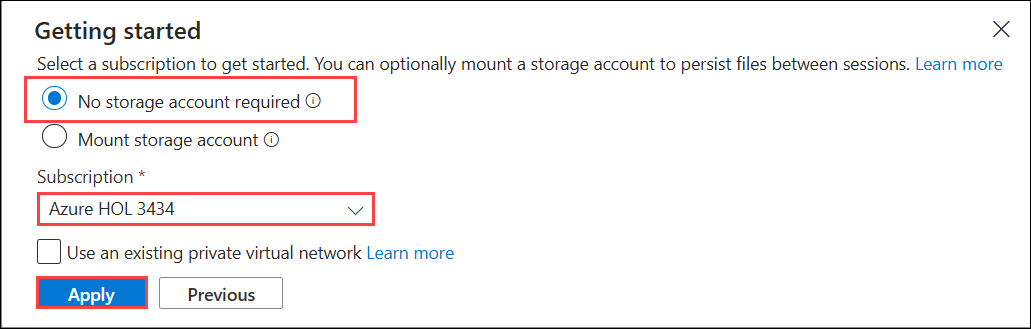
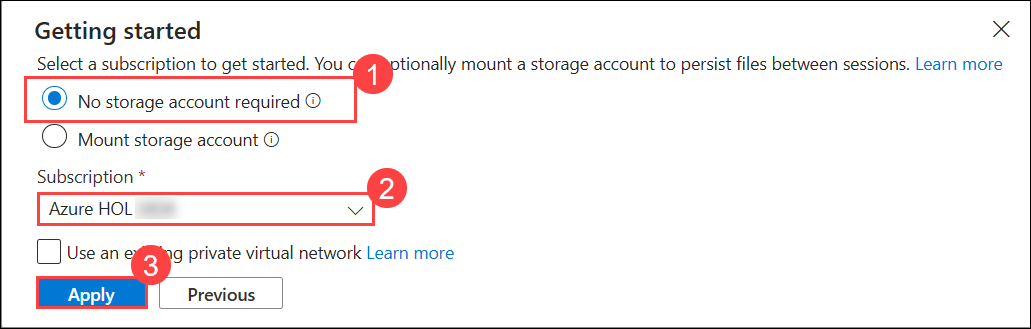
screenshots and content updated

diff --git a/HOL-4-azure-stack-hci/hci-eternal-hol1-ex2.md b/HOL-4-azure-stack-hci/hci-eternal-hol1-ex2.md
@@ -23,7 +23,7 @@ In this task, you will review the pre-generated ARM template and parameter files
 
     ![](./media/Ex2-9.png)
 
-1. On the Open Folder window, navigate to **C:\ (1)** path, select **LocalBox (2)** folder, then click on **Open Folder (3)**.
+1. On the Open Folder window, navigate to **C:\ (1)** path, select **LocalBox (2)** folder, then click on **Select Folder (3)**.
 
     ![](./media/Ex2-10.png)
 
@@ -33,13 +33,13 @@ In this task, you will review the pre-generated ARM template and parameter files
 
     ![](./media/lab02a1.png)
 
-1. Click on **No storage account required**, choose your subscription, and then click **Apply**.
+1. Click on **No storage account required (1)**, choose your subscription **(2)**, and then click **Apply (3)**.
 
-    >**Note:** Ensure that you select the subscription whose name begins with **Sub 05 - xxxx**
+    >**Note:** Ensure that you select the subscription whose name begins with **Azure HOL - xxxxxx**
 
     ![](./media/lab02a2.png)
 
-1. Open PowerShell and run the commands to register the required Resource Provide.
+1. Once the PowerShell is ready, run the below commands to register the required Resource Providers.
 
    >**Note:** It will take 2-3 minutes to get registered.
 
@@ -66,7 +66,7 @@ In this task, you will review the pre-generated ARM template and parameter files
 
 1. Navigate to the **Azure portal**, in search bar type **Subscriptions (1)** and select **Subscriptions (2)** under the services. 
 
-    >**Note:** Ensure that you select the subscription whose name begins with **Sub 05 - xxxx**
+    >**Note:** Ensure that you select the subscription whose name begins with **Azure HOL - xxxxxx**
 
     ![](./media/Ex2-0.png)
 
@@ -85,7 +85,7 @@ In this task, you will review the pre-generated ARM template and parameter files
 
 1. Similarly, on the Resource Providers page, search for **Hybrid**, select **Microsoft.HybridContainerService**, then click on **Register.**
 
-    >**Note:** You can verify all Resource Providers here to ensure they are registered successfully.
+    >**Note:** If it is already registered please ignore. You can verify all Resource Providers here to ensure they are registered successfully.
 
     ![](./media/Ex2-14.png)     
 
@@ -123,7 +123,7 @@ In this task, you will review the pre-generated ARM template and parameter files
 
 In this task, you will validate and deploy the Azure Local cluster using PowerShell with the pre-configured ARM template and parameter files.
 
-1. Open PowerShell ISE window and run the below command to validate your Azure Local deployment and cluster.
+1. Open Windows PowerShell ISE window and run the below command to validate your Azure Local deployment and cluster.
 
    ```
    $TemplateFile = Join-Path -Path $env:LocalBoxDir -ChildPath "azlocal.json"
@@ -134,6 +134,12 @@ In this task, you will validate and deploy the Azure Local cluster using PowerSh
 
 1. The above command will take approximately 45 minutes to get your deployment validated and show you the Azure Local cluster on the Azure Portal.
 
+    >**Note:** If the deployments fails run the below commands and then restart the VM and again run the code in **Step-1**
+
+    ```
+    Install-WindowsFeature -Name Hyper-V,Failover-Clustering,RSAT-Clustering-PowerShell -IncludeManagementTools
+    ```
+
 1. You can navigate to the Azure Portal and see a new Azure Local resource created in your resource group.
 
 1. Once the validation is completed, run the command below to start the creation of Azure Local. This command will take approximately 3 hrs to deploy your cluster. 
@@ -142,9 +148,19 @@ In this task, you will validate and deploy the Azure Local cluster using PowerSh
    New-AzResourceGroupDeployment -Name 'localcluster-deploy' -ResourceGroupName $env:resourceGroup -TemplateFile $TemplateFile -deploymentMode "Deploy" -TemplateParameterFile $TemplateParameterFile -OutVariable ClusterDeployment -ErrorAction Stop
    ```
 
-11. Once the deployment starts, you can navigate to the Azure Portal, select your Azure Local resource, and select the  **Deployments (1)** under Settings to see your **deployment status (3)**.
+1. Once the deployment starts, you can navigate to the **Azure Portal**, in search bar type **Resource groups (1)** and select **Resource groups (2)** under the services. 
+
+    ![](media/Ex3-0.png)
+
+1. From the Resource groups pane, click on **Azure-Local** resource group and verify the resources present in it.
+
+    ![](media/azurestackhci-rga.png "Select Azure Local Resource Group")
+
+1. In the  **Azure-Local** resource group in the search bar search for **localboxcluster** **(1)** and select **localboxcluster** **(2)** Azure Local.
+
+    ![](media/E2T2S7.png)
    
-12. Azure Local may take 3 to 5 hours to get deployed. If you navigate elsewhere in the Azure Portal, you can return to monitor progress on the Deployments tab of the cluster resource. Click **Refresh (2)** to get the latest status on deployment.
+1. Select the  **Deployments (1)** under Settings to see your **deployment status (3)**. Azure Local may take 3 to 5 hours to get deployed. If you navigate elsewhere in the Azure Portal, you can return to monitor progress on the Deployments tab of the cluster resource. Click **Refresh (2)** to get the latest status on deployment.
 
      ![](./media/NewEx3-6.png)
 

diff --git a/HOL-4-azure-stack-hci/hci-eternal-hol2-ex3.md b/HOL-4-azure-stack-hci/hci-eternal-hol2-ex3.md
@@ -73,9 +73,13 @@ In this task, you will configure an Entra ID group to manage authentication and 
 
     ![](media/Ex3-3.png)
 
-1. In the **New Group** tab, enter the **Group name** as **aks-auth** **(1)**, click on the **No Owner Selected** **(2)** under **Owners**, from the search **(3)** and select **(4)** for user **ODL_User <inject key="DeploymentID"></inject>**, and click on **Select** **(5)**.
+1. In the **New Group** tab, enter the **Group name** as **aks-auth** **(1)**, click on the **No Owner Selected** **(2)** under **Owners**, from the search **(3)** and select **(4)** for user **<inject key="AzureAdUserEmail"></inject>**, and click on **Select** **(5)**.
 
     ![](media/createnewgroup.png)
+
+1. Click on the **No members Selected** **(1)** under **Members**, from the search **(2)** and select **(3)** for user **<inject key="AzureAdUserEmail"></inject>**, and click on **Select** **(4)**.
+
+   ![](media/E4T2S4.png)
 
 1. In the **New Group** tab, click on **Create** button.
 
@@ -85,9 +89,17 @@ In this task, you will configure an Entra ID group to manage authentication and 
 
 In this task, you will deploy an AKS cluster on Azure Local with Entra-based RBAC authentication and network integration.
 
-1. In the Azure portal, click on the search blade at the top and search for **Azure Arc** and select **Kubernetes Clusters** under infrastructure from left side menu.
+1. In the Azure portal, click on the search blade at the top and search for **Azure Arc (1)** and select **Azure Arc (2)**
+
+   ![](media/E4T3S1-1.png)
+
+1. In the Azure Arc page, select **Kubernetes Clusters** under infrastructure from left side menu.
+
+   ![](media/E4T3S1.png)
 
 1. In the **Kubernetes Clusters** tab, click on **+ Add** **(1)** and from the drop-down select **Create a Kubernetes cluster**.
+
+   ![](media/E4T3S3.png)
 
 1. In the **Create a Kubernetes cluster** tab, fill in the following details in the Basic section and click on **Next: Node Pool** **(7)**.
 
@@ -96,7 +108,7 @@ In this task, you will deploy an AKS cluster on Azure Local with Entra-based RBA
    | Subscription | Default subscription **(1)** |
    | Resource group | From the drop-down Select **Azure-Local** **(2)**  |
    | Kubernetes cluster name | Enter the cluster name as **localaks** **(3)** |
-   | Custom location | From the drop-down Select **jumpstart(EastUS)** **(4)** |
+   | Custom location | From the drop-down Select **jumpstart** **(4)** |
    | Node size | From the drop down select **Standard_A2_v2** **(5)** |
    | Key pair name | Enter the Key pair name as **localaks** **(6)** |
 
@@ -118,11 +130,17 @@ In this task, you will deploy an AKS cluster on Azure Local with Entra-based RBA
 
    ![](media/Ex3-7.png)
 
+1. In the **Integration tab**, click on **Review + create**.
+
 1. In the **Review + create** tab, click on **Review**.
 
    ![](media/Ex3-8.png)
 
-1. Click on the AKS cluster to view details such as the Kubernetes version. "Status" may show connecting for some time while the cluster fully connects to Azure.
+1. Once the deployment completed, in search bar type **Kuberante azure arc (1)** and select **Kuberantes Azure Arc (2)**.
+
+   ![](media/E4T3S12.png)
+
+1. Click on **localaks** to view details such as the Kubernetes version. "Status" may show connecting for some time while the cluster fully connects to Azure.
 
      ![](media/Ex4-3.png)
     

diff --git a/HOL-4-azure-stack-hci/hci-eternal-hol2-ex5.md b/HOL-4-azure-stack-hci/hci-eternal-hol2-ex5.md
@@ -26,27 +26,23 @@ In this task, you will perform updates on the localboxcluster Azure Local resour
 
    ![](media/Ex3-1.png)
 
-2. In the Azure Local page, select **Updates (1)** under **Operations** from left menu.
+2. In the Azure Local page, select **Updates (1)** under **Operations** from left menu, click on **Install now (2)**.
 
-3. From the Updates pane, click on **One-time update (2)**.
-
-   ![](media/Ex4-5.png)
+   ![](media/E5T1S4.png)
 
 4. In the Install updates pane from Azure Update manager, verify the available updates and click on **Next**.
 
-   ![](media/ex5-3.png)
+   ![](media/ex5-3-1.png)
   
-5. Select the available updates to install and click on **Next**.
-
-   ![](media/Ex5-0.png)
-
 6. From the Review + install pane, review the selected updates and click on **Install**.
 
-   ![](media/Ex5-1.png)
+   ![](media/Ex5-1-1.png)
 
 7. You will see a notification that **Installation started on 1 Azure Local systems**. Also, you will be able to see the In-progress status from the Updates pane.
 
-   ![](media/hci24-16.1a.png)
+   ![](media/hci24-16.1a-1.png)
+
+    >**Note:** Sometimes it takes time to reflect the Status in the update manager
 
 8. Updating the Azure Local Cluster will take around 2 Hours. Once it's updated successfully, you will be able to see the status as **Up to date** and the update readiness as **Healthy** as shown in the screenshot below.
 

diff --git a/HOL-4-azure-stack-hci/hci-eternal-lab-overview-v2.md b/HOL-4-azure-stack-hci/hci-eternal-lab-overview-v2.md
@@ -93,7 +93,7 @@ Once you're ready to dive in, your virtual machine and lab guide will be right a
  
 Your virtual machine is your workhorse throughout the workshop. The **Guide** is your roadmap to success.
 
-![](./media/GettingStarted-0.png "Lab Environment")
+![](./media/Gettingstarted.png "Lab Environment")
  
 ### Exploring Your Lab Resources
  
@@ -125,7 +125,13 @@ To adjust the zoom level for the environment page, click the **A↕: 100%** icon
   
    ![](./media/azure-portal-edgea.png)
     
-1. Navigate to Azure Portal using the URL provided here: `https://portal.azure.com/`. On the **Sign into Microsoft Azure** tab, you will see the login prompt. Enter the following **Email/Username**, and then click on **Next (2)**. 
+1. Navigate to Azure Portal using the URL provided link
+
+   ```
+   https://portal.azure.com/
+   ``` 
+ 
+1. On the **Sign into Microsoft Azure** tab, you will see the login prompt. Enter the following **Email/Username**, and then click on **Next (2)**. 
       
     - Email/Username: **<inject key="AzureAdUserEmail"></inject> (1)**
   

diff --git a/HOL-4-azure-stack-hci/hci-eternal-hol2-ex4.md b/HOL-4-azure-stack-hci/hci-eternal-hol2-ex4.md
@@ -28,6 +28,8 @@ In this task, you will create a logical network in the localboxcluster to enable
 
     ![](media/Ex3-1.png)
 
+    >**Note:** If **Action Required: Update this Azure Local instance** pop-up appears, click on **Ok**.
+
 4. In the **localboxcluster** Azure Local, from the left menu select **Logical networks** **(1)** under Resources, and click on **+ Create logical network** **(2)**.
  
     ![](media/Ex3-2.png)
@@ -81,7 +83,7 @@ In this task, you will download a Windows 10 Enterprise multi-session VM image f
 
     ![](media/NewEx3-2.png)
 
-   > **Note**: VM images download may take up to 1 hour.
+   > **Note**: VM images download may take 1-2 hours to complete.
     
 1. You can monitor the download Progress by selecting the **VM images (1)** tab from the lab side menu of the localboxcluster resource. Once the VM image download is completed, you will see the Status as **Available (2)**.
 

diff --git a/HOL-4-azure-stack-hci/hci-eternal-hol1-ex1.md b/HOL-4-azure-stack-hci/hci-eternal-hol1-ex1.md
@@ -21,7 +21,7 @@ In this task, you will use Hyper-V Manager on the Localbox-Client VM to review t
 
    ![](./media/hci24-1a.png)
     
-2. From Hyper-V Manager, click on **LOCALBOX-CLIENT** and review that the **AzLHOST1**, **AzLHOST2**, and **AzLMGMT** virtual machines are up and running, as shown in the screenshot below.
+2. From Hyper-V Manager, click on **LOCALBOX-CLIENT (1)** and review that the **AzLHOST1**, **AzLHOST2**, and **AzLMGMT** virtual machines **(2)** are up and running, as shown in the screenshot below.
 
    ![](./media/ex1.png)
 
